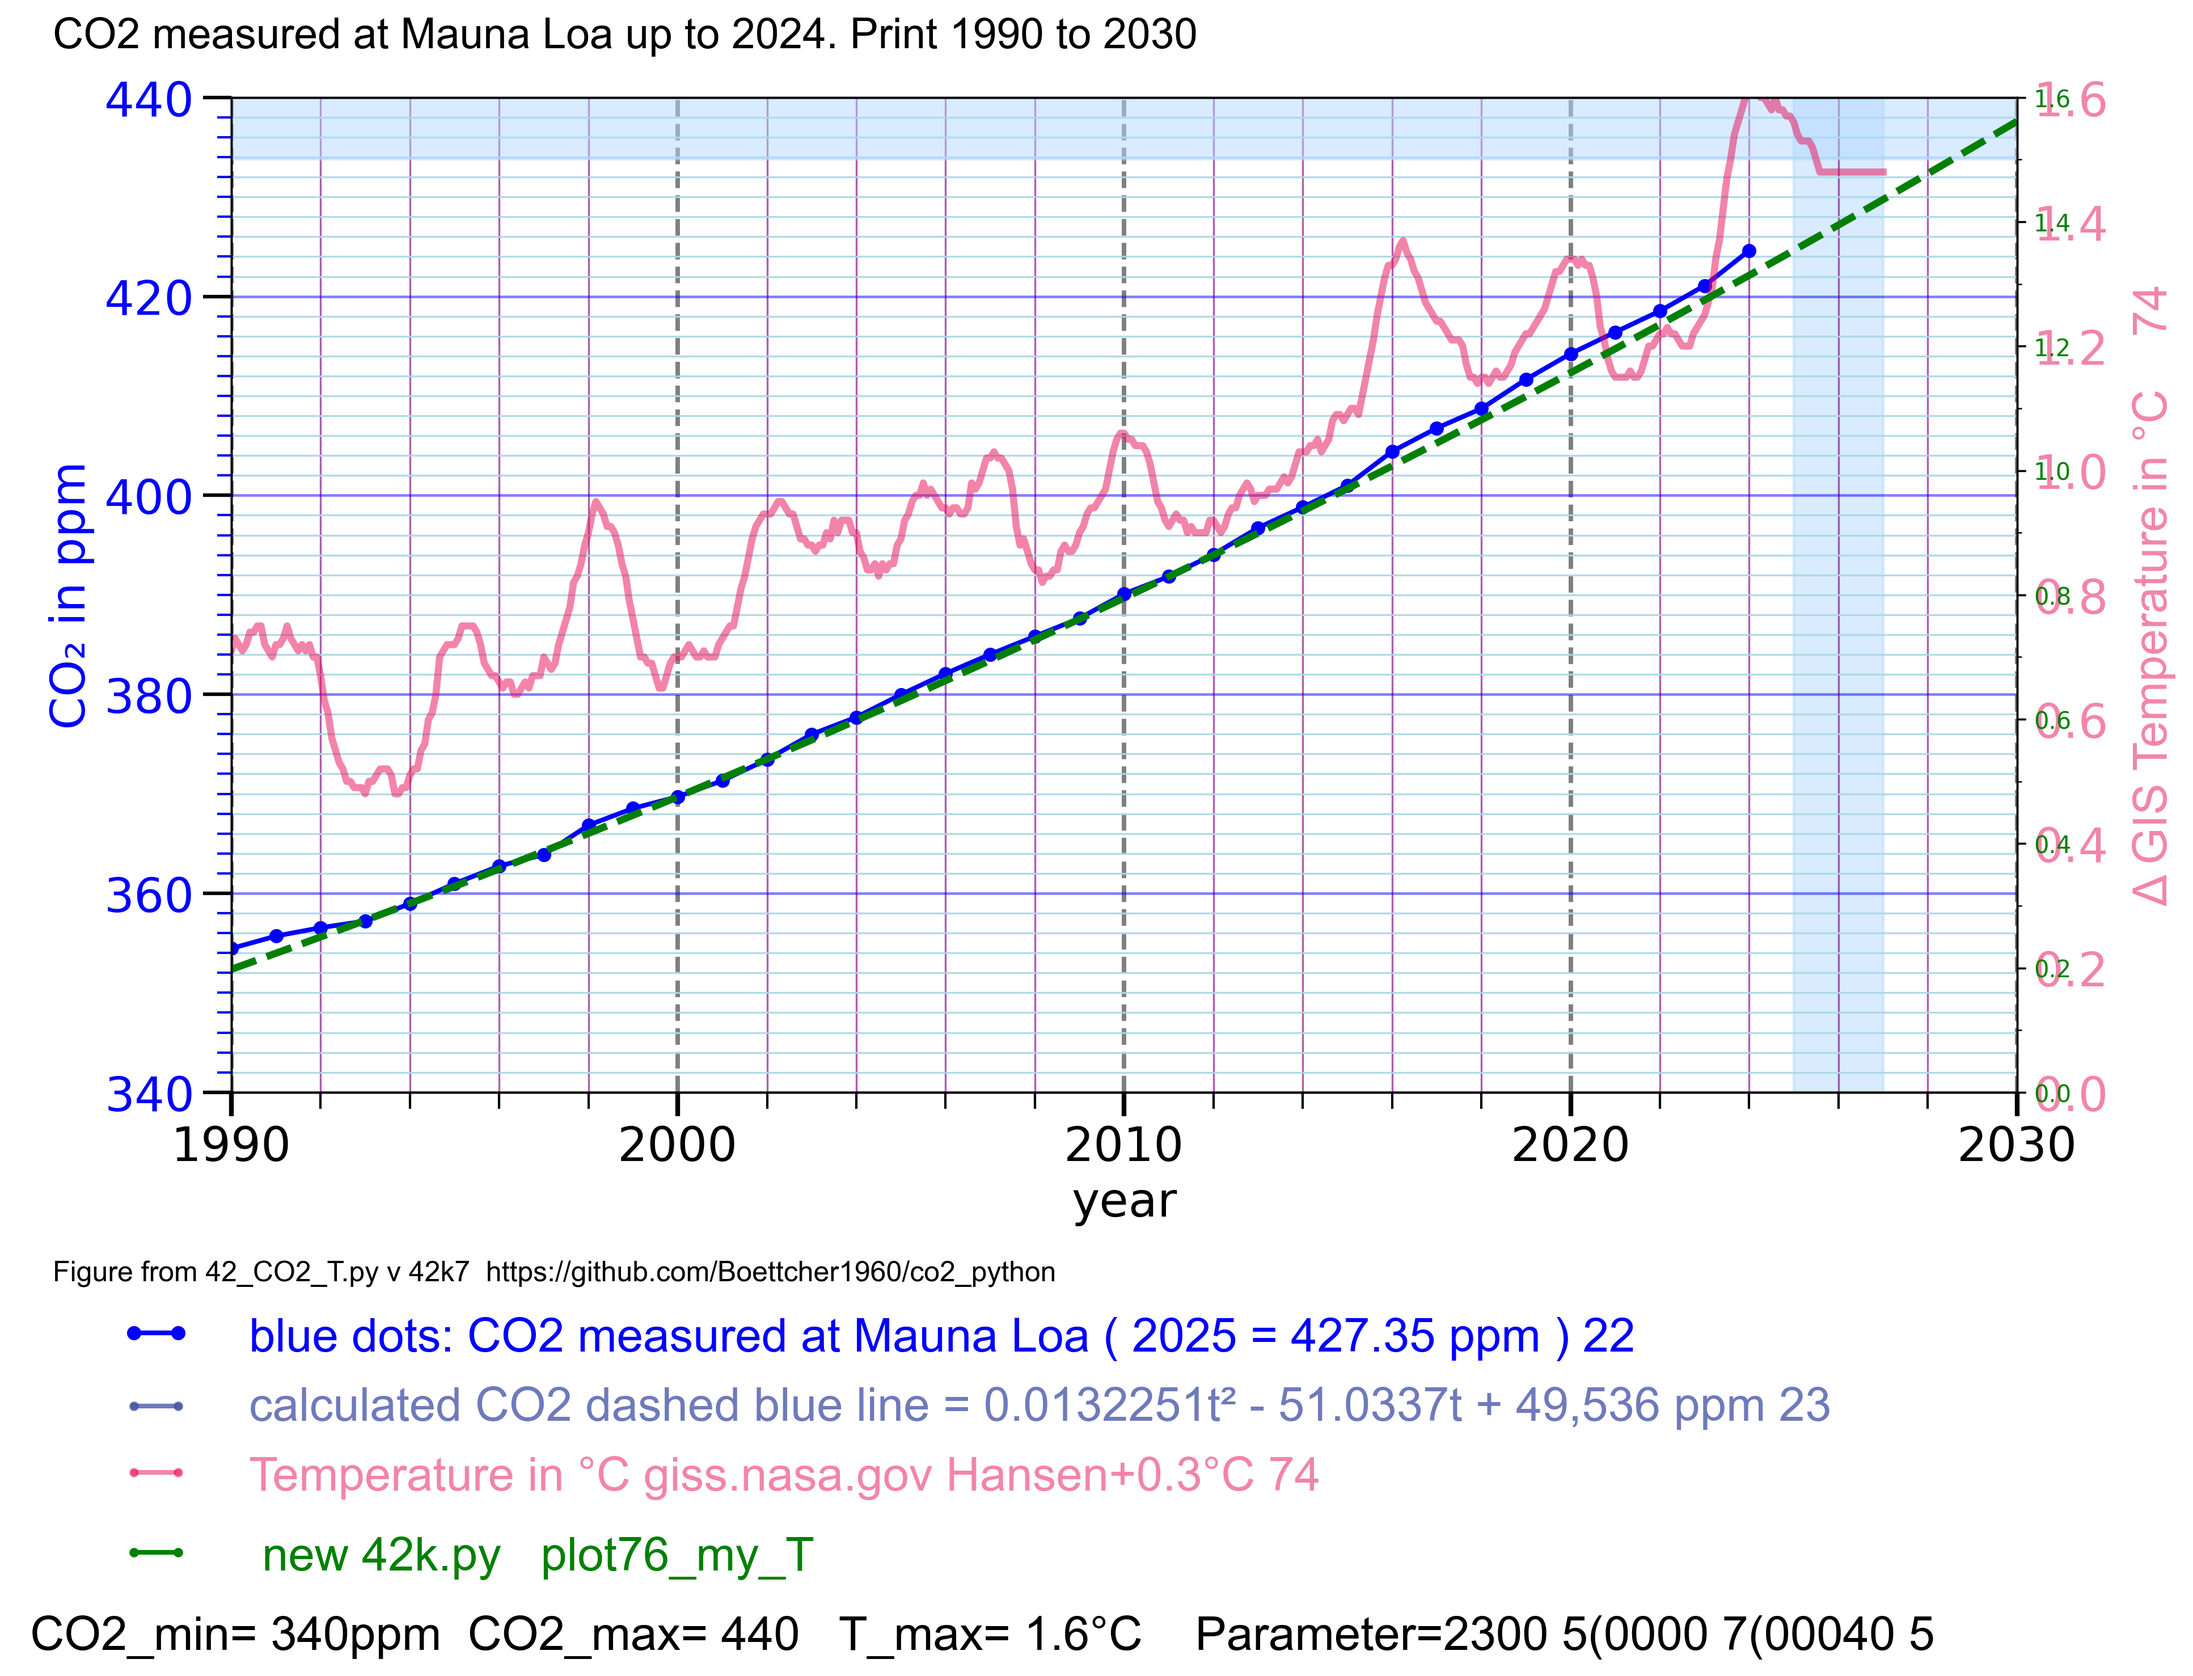
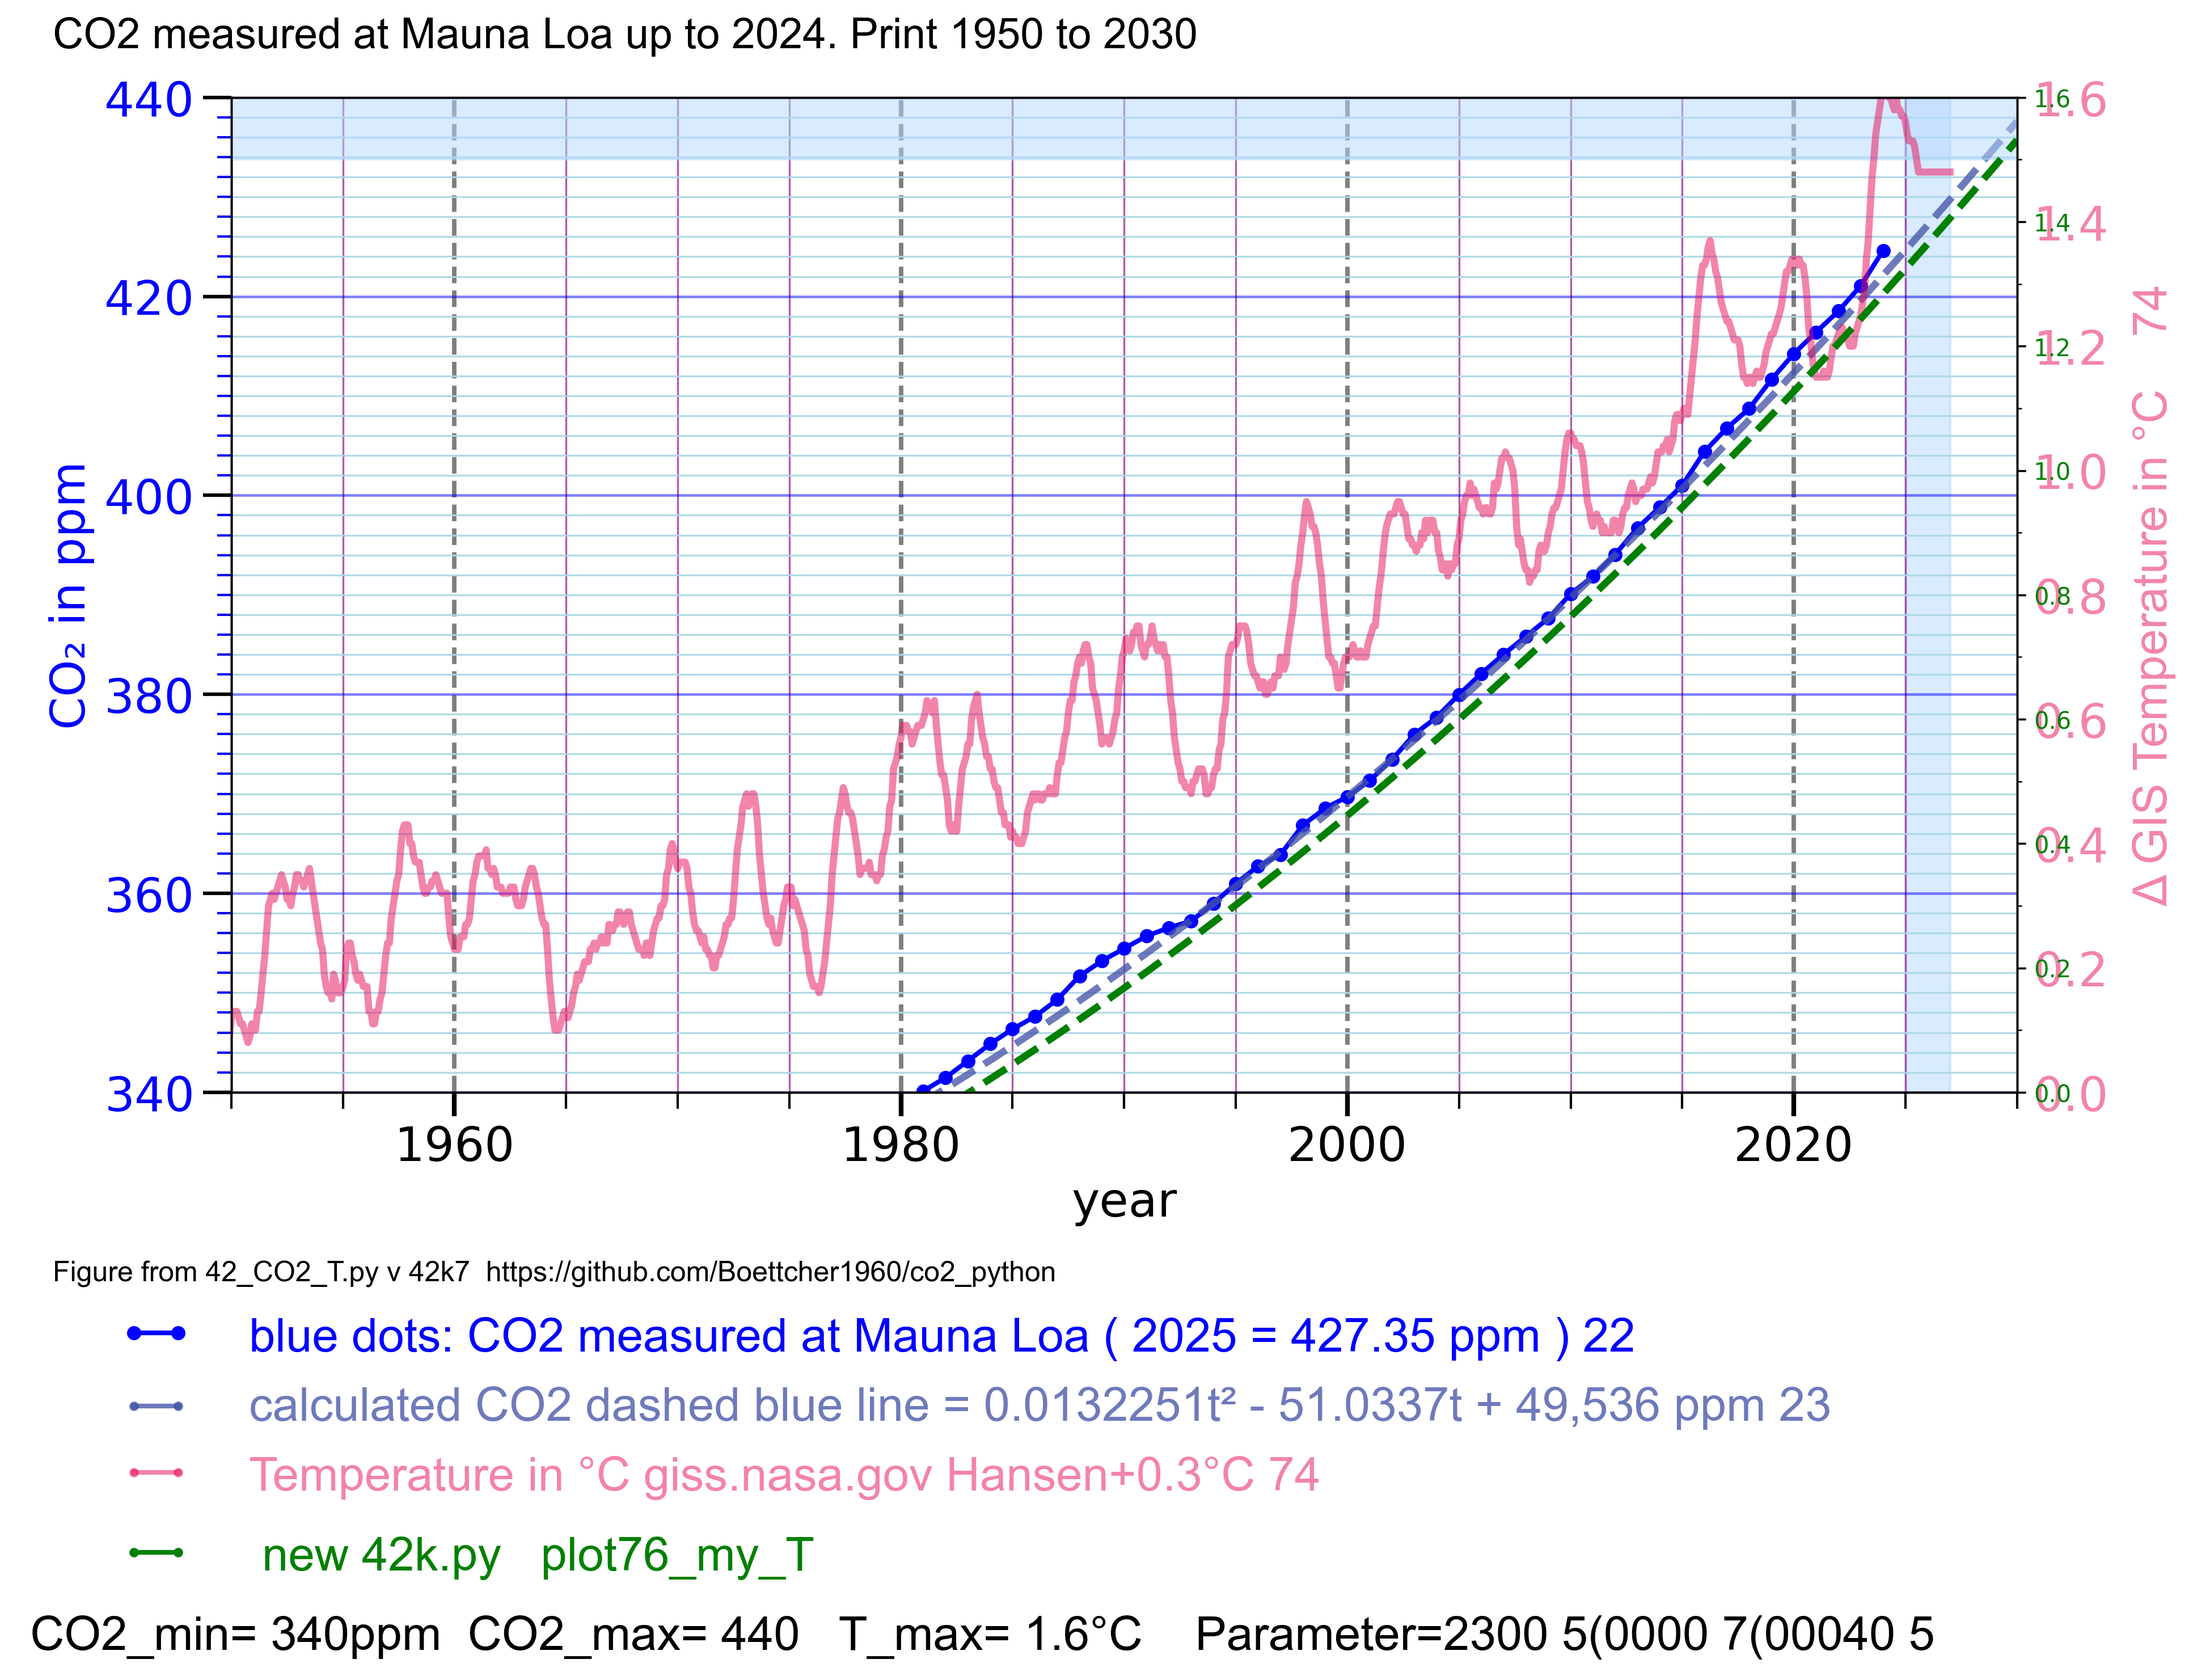
v = "42k7" #  plot76_my_T

diff --git a/42_CO2_T.py b/42_CO2_T.py
@@ -93,7 +93,7 @@ y_max = 440 # 1300 # min value 440 70
 y_Tmin = 0 # min value °C
 y_Tmax = 1.6 # 1.6 4 # max value C
 
-x_anf = 1990 # 1960 2000 -33000
+x_anf = 1950 # 1960 2000 -33000
 x_end = 2030 # 2200 2026 
 
 # 1.4.5 scale the text rows below the plot field
@@ -596,6 +596,7 @@ def T_model76(t):
    temp76= ( CO2 -340 ) / yppm
    # temp76= temp76 * ( yT +0.6 )
    temp76= temp76 * 1.6
+   temp76= temp76 -0.03
    return temp76
 # 7.6.2 years scale x axis
 years76 = np.arange(x_anf, x_end + 1 )
